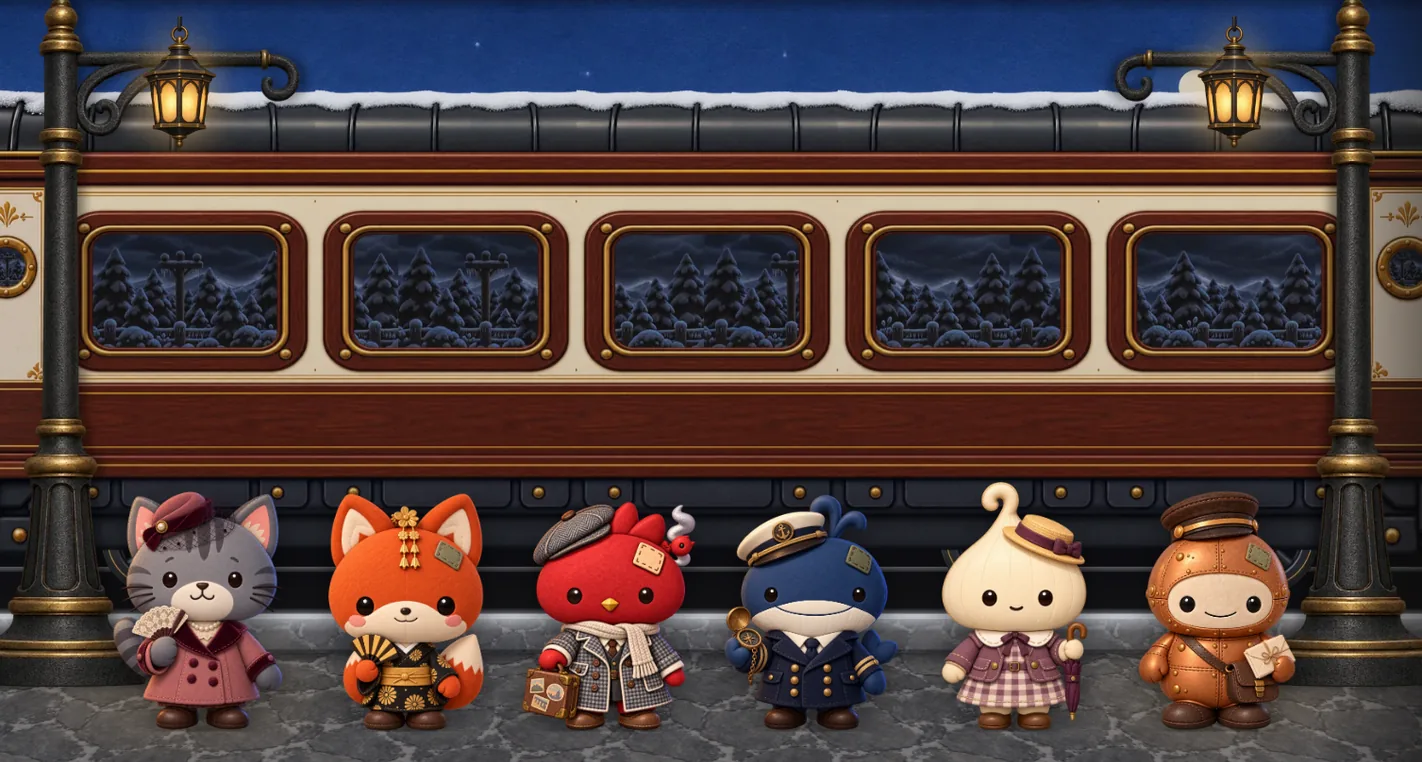
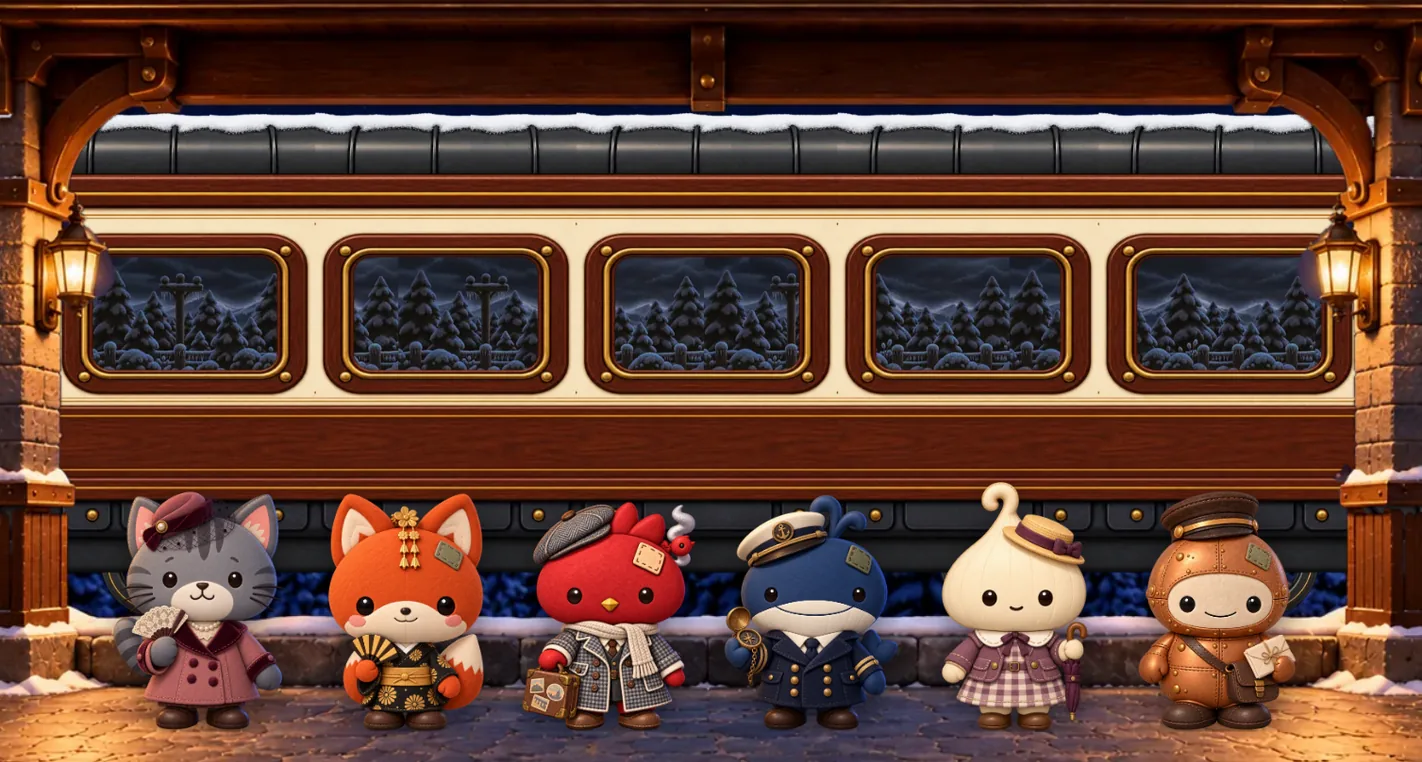
test(e2e): the platform's goldens and the guide's baked platform redrawn; docs

diff --git a/frontend/docs/stage_architecture.md b/frontend/docs/stage_architecture.md
@@ -331,6 +331,13 @@ anything that shows state is drawn over the sprite in vector, never baked in.
   mean difference 2.5/255; the 2026-09-27 mockup's `.beam` is the same wood). The canopy's felt
   `fringe` was dropped that day: the mockup's top became a walnut beam with a brass trim, and
   its edge the paving's stone under a drift of snow. 12.4 MB of PNG → 1.4 MB of WebP, the train 708 KB of it.
+  Since 2026-10-19 the sky, paving, posts and lanterns are gone: the platform is the owner's one
+  picture (`platform`, 1672×941: the beam, two stone pillars with their lanterns, the ledge, the
+  paving, the night through the arches), shipped whole for the back and again with the arches
+  clear for the front (`platformFront`, `scripts/fit_platform.py`), the train between them, its
+  snow line lowered to 164 so its wheels stand behind the ledge. 12.6 MB decoded against about
+  14 before. The game's loading cover waits for the train, both pictures and the ledge's walnut
+  (`StationReady`).
 - The dining car's window (ruled 2026-09-27; since 2026-10-19 the car's country is painted in
   the owner's car, below, and only the night rooms keep the felt night): the country behind the glass is painted felt, a
   pair per hour, `SPRITES.window[hour].{far,near}`, drawn by `instruments/FeltWindow.tsx` over the
@@ -1006,7 +1013,7 @@ src/stage/
 │                            #   (diningCarPlan: the painting's place, its glass, glows, specials);
 │                            #   texture.ts: the surfaces' SVG patterns (walnut, boards);
 │                            #   bleed.ts: the platform's two strips past the world's sides (§3);
-│                            #   station.ts: the platform (stationBack/Front, stationPlan);
+│                            #   station.ts: the platform (stationPlan);
 │                            #   atmosphere.ts: the key light by hour, the car's haze;
 │                            #   compartment.ts: the night rooms' plan (roomPlan: the painting,
 │                            #   its glass, candle, card and photo line, ROOMS), the twine
